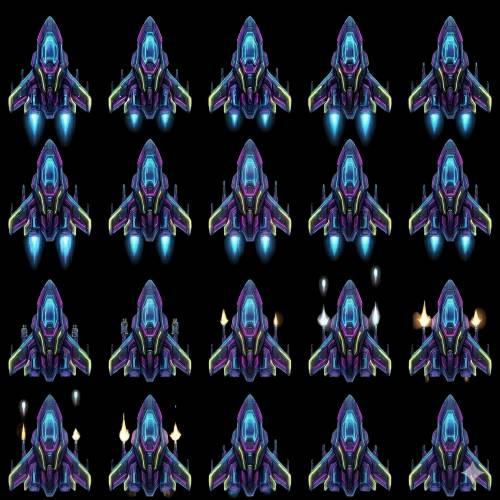
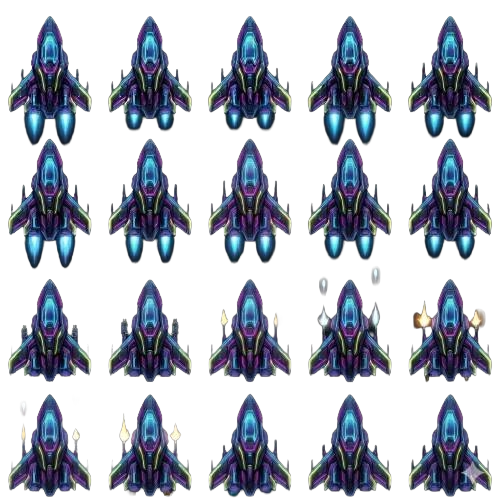
이미지 높이 변경6

diff --git a/kids-game/src/actionarea/spaceshipbattle/SpaceshipBattle.jsx b/kids-game/src/actionarea/spaceshipbattle/SpaceshipBattle.jsx
@@ -17,7 +17,7 @@ const SpaceshipBattle = ({
   // 콤보에 따른 폭발 크기
   const explosionScale = 0.7 + (missileCol * 0.15);
   const [effectIndex, setEffectIndex] = useState(0);
-  const shipState = actionState === 'playerFire' || actionState === 'enemyFire' ? 'idle' : 'idle';
+  const shipState = 'still';
   const missileTier = `tier${Math.max(1, Math.min(5, missileCol + 1))}`;
 
   useEffect(() => {
@@ -58,24 +58,26 @@ const SpaceshipBattle = ({
         
         {/* --- 1. 플레이어 비행선 (HERO) --- */}
         <div className="space-battle__ship space-battle__ship--player">
-          <div className={`space-battle__ship-motion space-battle__ship-motion--player
-            ${actionState === 'playerFire' ? 'fire-recoil-p' : ''} 
-            ${actionState === 'enemyFire' ? 'hit-shake' : ''}`}>
-            <div className="ship-sprite-wrapper ship-sprite-wrapper--player">
-              <BattleShipSprite
-                type="ship_player"
-                state={shipState}
-                scale={0.5}
-                style={{ mixBlendMode: 'screen' }}
-              />
-            </div>
-            
-            {/* 플레이어 피격 폭발 레이어 */}
-            {actionState === 'enemyFire' && (
-              <div className="explosion-layer">
-                <BattleShipSprite type="effect" index={effectIndex} scale={0.8} />
+          <div className="space-battle__ship-float space-battle__ship-float--player">
+            <div className={`space-battle__ship-react
+              ${actionState === 'playerFire' ? 'fire-recoil-p' : ''} 
+              ${actionState === 'enemyFire' ? 'hit-shake' : ''}`}>
+              <div className="ship-sprite-wrapper ship-sprite-wrapper--player">
+                <BattleShipSprite
+                  type="ship_player"
+                  state={shipState}
+                  scale={0.5}
+                  style={{ mixBlendMode: 'screen' }}
+                />
               </div>
-            )}
+              
+              {/* 플레이어 피격 폭발 레이어 */}
+              {actionState === 'enemyFire' && (
+                <div className="explosion-layer">
+                  <BattleShipSprite type="effect" index={effectIndex} scale={0.8} />
+                </div>
+              )}
+            </div>
           </div>
         </div>
 
@@ -83,28 +85,30 @@ const SpaceshipBattle = ({
 
         {/* --- 2. 컴퓨터 비행선 (ALIEN) --- */}
         <div className="space-battle__ship space-battle__ship--enemy">
-          <div className={`space-battle__ship-motion space-battle__ship-motion--enemy
-            ${actionState === 'enemyFire' ? 'fire-recoil-e' : ''} 
-            ${actionState === 'playerFire' ? 'hit-shake' : ''}`}>
-            <div className="ship-sprite-wrapper ship-sprite-wrapper--enemy">
-              <BattleShipSprite
-                type="ship_enemy_sheet"
-                state="idle"
-                scale={0.5}
-                style={{ mixBlendMode: 'screen' }}
-              />
-            </div>
-            
-            {/* 적군 피격 폭발 레이어 (미사일에 맞춰 커짐) */}
-            {actionState === 'playerFire' && (
-              <div className="explosion-layer">
-                <BattleShipSprite 
-                  type="effect" 
-                  index={effectIndex} 
-                  scale={explosionScale} 
+          <div className="space-battle__ship-float space-battle__ship-float--enemy">
+            <div className={`space-battle__ship-react
+              ${actionState === 'enemyFire' ? 'fire-recoil-e' : ''} 
+              ${actionState === 'playerFire' ? 'hit-shake' : ''}`}>
+              <div className="ship-sprite-wrapper ship-sprite-wrapper--enemy">
+                <BattleShipSprite
+                  type="ship_enemy_sheet"
+                  state="still"
+                  scale={0.5}
+                  style={{ mixBlendMode: 'screen' }}
                 />
               </div>
-            )}
+              
+              {/* 적군 피격 폭발 레이어 (미사일에 맞춰 커짐) */}
+              {actionState === 'playerFire' && (
+                <div className="explosion-layer">
+                  <BattleShipSprite 
+                    type="effect" 
+                    index={effectIndex} 
+                    scale={explosionScale} 
+                  />
+                </div>
+              )}
+            </div>
           </div>
         </div>
 

diff --git a/kids-game/src/components/common/battleShipSprite.jsx b/kids-game/src/components/common/battleShipSprite.jsx
@@ -86,6 +86,44 @@ function shouldMakeBlackTransparent(normalizedType, type) {
   );
 }
 
+function removeNearBlackBackground(imageData) {
+  const { data } = imageData;
+
+  for (let offset = 0; offset < data.length; offset += 4) {
+    const red = data[offset];
+    const green = data[offset + 1];
+    const blue = data[offset + 2];
+    const alpha = data[offset + 3];
+    const maxChannel = Math.max(red, green, blue);
+    const minChannel = Math.min(red, green, blue);
+    const saturationGap = maxChannel - minChannel;
+    const brightness = red + green + blue;
+
+    if (alpha === 0) {
+      continue;
+    }
+
+    // 완전한 검정 또는 거의 검정 배경은 완전히 제거
+    if (maxChannel <= 28) {
+      data[offset + 3] = 0;
+      continue;
+    }
+
+    // 어두운 회색/검정 계열 배경은 강하게 약화
+    if (maxChannel <= 52 && saturationGap <= 18) {
+      data[offset + 3] = Math.round(alpha * 0.08);
+      continue;
+    }
+
+    // 조금 더 밝지만 여전히 배경으로 보이는 저채도 암부는 추가 감쇠
+    if (brightness <= 120 && saturationGap <= 24) {
+      data[offset + 3] = Math.round(alpha * 0.28);
+    }
+  }
+
+  return imageData;
+}
+
 const BattleShipSprite = ({
   type,
   state = 'idle',
@@ -262,27 +300,8 @@ const BattleShipSprite = ({
 
         context.drawImage(testImage, 0, 0);
         const imageData = context.getImageData(0, 0, canvas.width, canvas.height);
-        const { data } = imageData;
-
-        for (let offset = 0; offset < data.length; offset += 4) {
-          const red = data[offset];
-          const green = data[offset + 1];
-          const blue = data[offset + 2];
-          const alpha = data[offset + 3];
-          const brightness = red + green + blue;
-
-          if (alpha === 0) {
-            continue;
-          }
-
-          if (brightness < 42) {
-            data[offset + 3] = 0;
-          } else if (brightness < 72) {
-            data[offset + 3] = Math.round(alpha * 0.25);
-          }
-        }
-
-        context.putImageData(imageData, 0, 0);
+        const processedImageData = removeNearBlackBackground(imageData);
+        context.putImageData(processedImageData, 0, 0);
         const dataUrl = canvas.toDataURL('image/png');
         transparentSpriteCache.set(imageUrl, dataUrl);
         setProcessedImageUrl((currentUrl) => (currentUrl === dataUrl ? currentUrl : dataUrl));
@@ -320,6 +339,7 @@ const BattleShipSprite = ({
     (spriteInfo.frames || 1) === 1 &&
     !animationCss &&
     !spriteInfo.states;
+  const shouldProcessTransparency = shouldMakeBlackTransparent(normalizedType, type);
 
   if (renderAsImage) {
     const {

diff --git a/kids-game/src/constants/battleShipSpriteData.js b/kids-game/src/constants/battleShipSpriteData.js
@@ -21,7 +21,6 @@ function warnOnce(key, message) {
 }
 
 const BASE_SPRITE_PATH = 'src/assets/images/battleShipIMG/';
-
 const SPRITE_URLS = {
   'cockpit_hud_fixed.png': cockpitHudFixedPng,
   'energy_core_sheet.png': energyCoreSheetPng,
@@ -34,6 +33,14 @@ const SPRITE_URLS = {
 
 // 스프라이트 시트 URL 조합 함수
 const getSpriteUrl = (filename) => {
+  if (!filename) {
+    warnOnce(
+      `sprite-file:${filename}`,
+      `BattleShipSpriteData: "${filename}" could not be resolved from ${BASE_SPRITE_PATH}.`,
+    );
+    return '';
+  }
+
   const resolvedUrl = SPRITE_URLS[filename];
 
   if (!resolvedUrl) {
@@ -68,6 +75,13 @@ const shipPlayerInfo = {
   sheetWidth: SHIP_SHEET_FRAME_WIDTH * SHIP_SHEET_COLS,
   sheetHeight: SHIP_SHEET_FRAME_HEIGHT * SHIP_SHEET_ROWS,
   states: {
+    still: {
+      x: 0,
+      y: 0,
+      frames: 1,
+      frameWidth: SHIP_SHEET_FRAME_WIDTH,
+      frameHeight: SHIP_SHEET_FRAME_HEIGHT,
+    },
     idle: {
       x: 0,
       y: 0,
@@ -102,6 +116,13 @@ const enemyShipSheetInfo = {
   sheetWidth: ENEMY_FRAME_WIDTH * 5,
   sheetHeight: ENEMY_FRAME_HEIGHT * 4,
   states: {
+    still: {
+      x: 0,
+      y: 0,
+      frames: 1,
+      frameWidth: ENEMY_FRAME_WIDTH,
+      frameHeight: ENEMY_FRAME_HEIGHT,
+    },
     idle: {
       x: 0,
       y: 0,

diff --git a/kids-game/src/logic/generators/MathGenerator.js b/kids-game/src/logic/generators/MathGenerator.js
@@ -70,8 +70,17 @@ function createSubtraction(level) {
  * 3. 곱셈 생성기 (우측 숫자는 최대 2자리로 제한하여 난이도 조절)
  */
 function createMultiplication(level) {
-  const num1 = getRandomNumberMixed(level);
-  const num2 = getRandomNumberMixed(Math.min(2, level));
+  const multiplicationRanges = {
+    1: [2, 4],
+    2: [5, 7],
+    3: [8, 9],
+    4: [10, 15],
+    5: [15, 19],
+  };
+
+  const [minDan, maxDan] = multiplicationRanges[level] || multiplicationRanges[1];
+  const num1 = Math.floor(Math.random() * (maxDan - minDan + 1)) + minDan;
+  const num2 = Math.floor(Math.random() * 9) + 1;
   const answer = num1 * num2;
 
   return {
@@ -80,6 +89,7 @@ function createMultiplication(level) {
     operator: '×',
     answer: String(answer),
     options: buildOptions(answer),
+    hint: `${num1}단을 떠올려봐!`,
     text: `${num1} × ${num2} = ?`
   };
 }

diff --git a/kids-game/src/actionarea/spaceshipbattle/SpaceshipBattle.css b/kids-game/src/actionarea/spaceshipbattle/SpaceshipBattle.css
@@ -63,17 +63,18 @@
   right: 16%;
 }
 
-.space-battle__ship-motion {
+.space-battle__ship-float,
+.space-battle__ship-react {
   position: relative;
   width: 100%;
   height: 100%;
 }
 
-.space-battle__ship-motion--player {
+.space-battle__ship-float--player {
   animation: float-player 2.8s ease-in-out infinite;
 }
 
-.space-battle__ship-motion--enemy {
+.space-battle__ship-float--enemy {
   animation: float-enemy 3.1s ease-in-out infinite;
 }
 
@@ -98,11 +99,11 @@
 }
 
 .ship-sprite-wrapper--player {
-  transform: rotate(90deg);
+  transform: rotate(90deg) scale(1);
 }
 
 .ship-sprite-wrapper--enemy {
-  transform: rotate(-90deg);
+  transform: rotate(-90deg) scale(1);
 }
 
 /* 미사일 높이: 우주선 포구 위치와 일치 */
